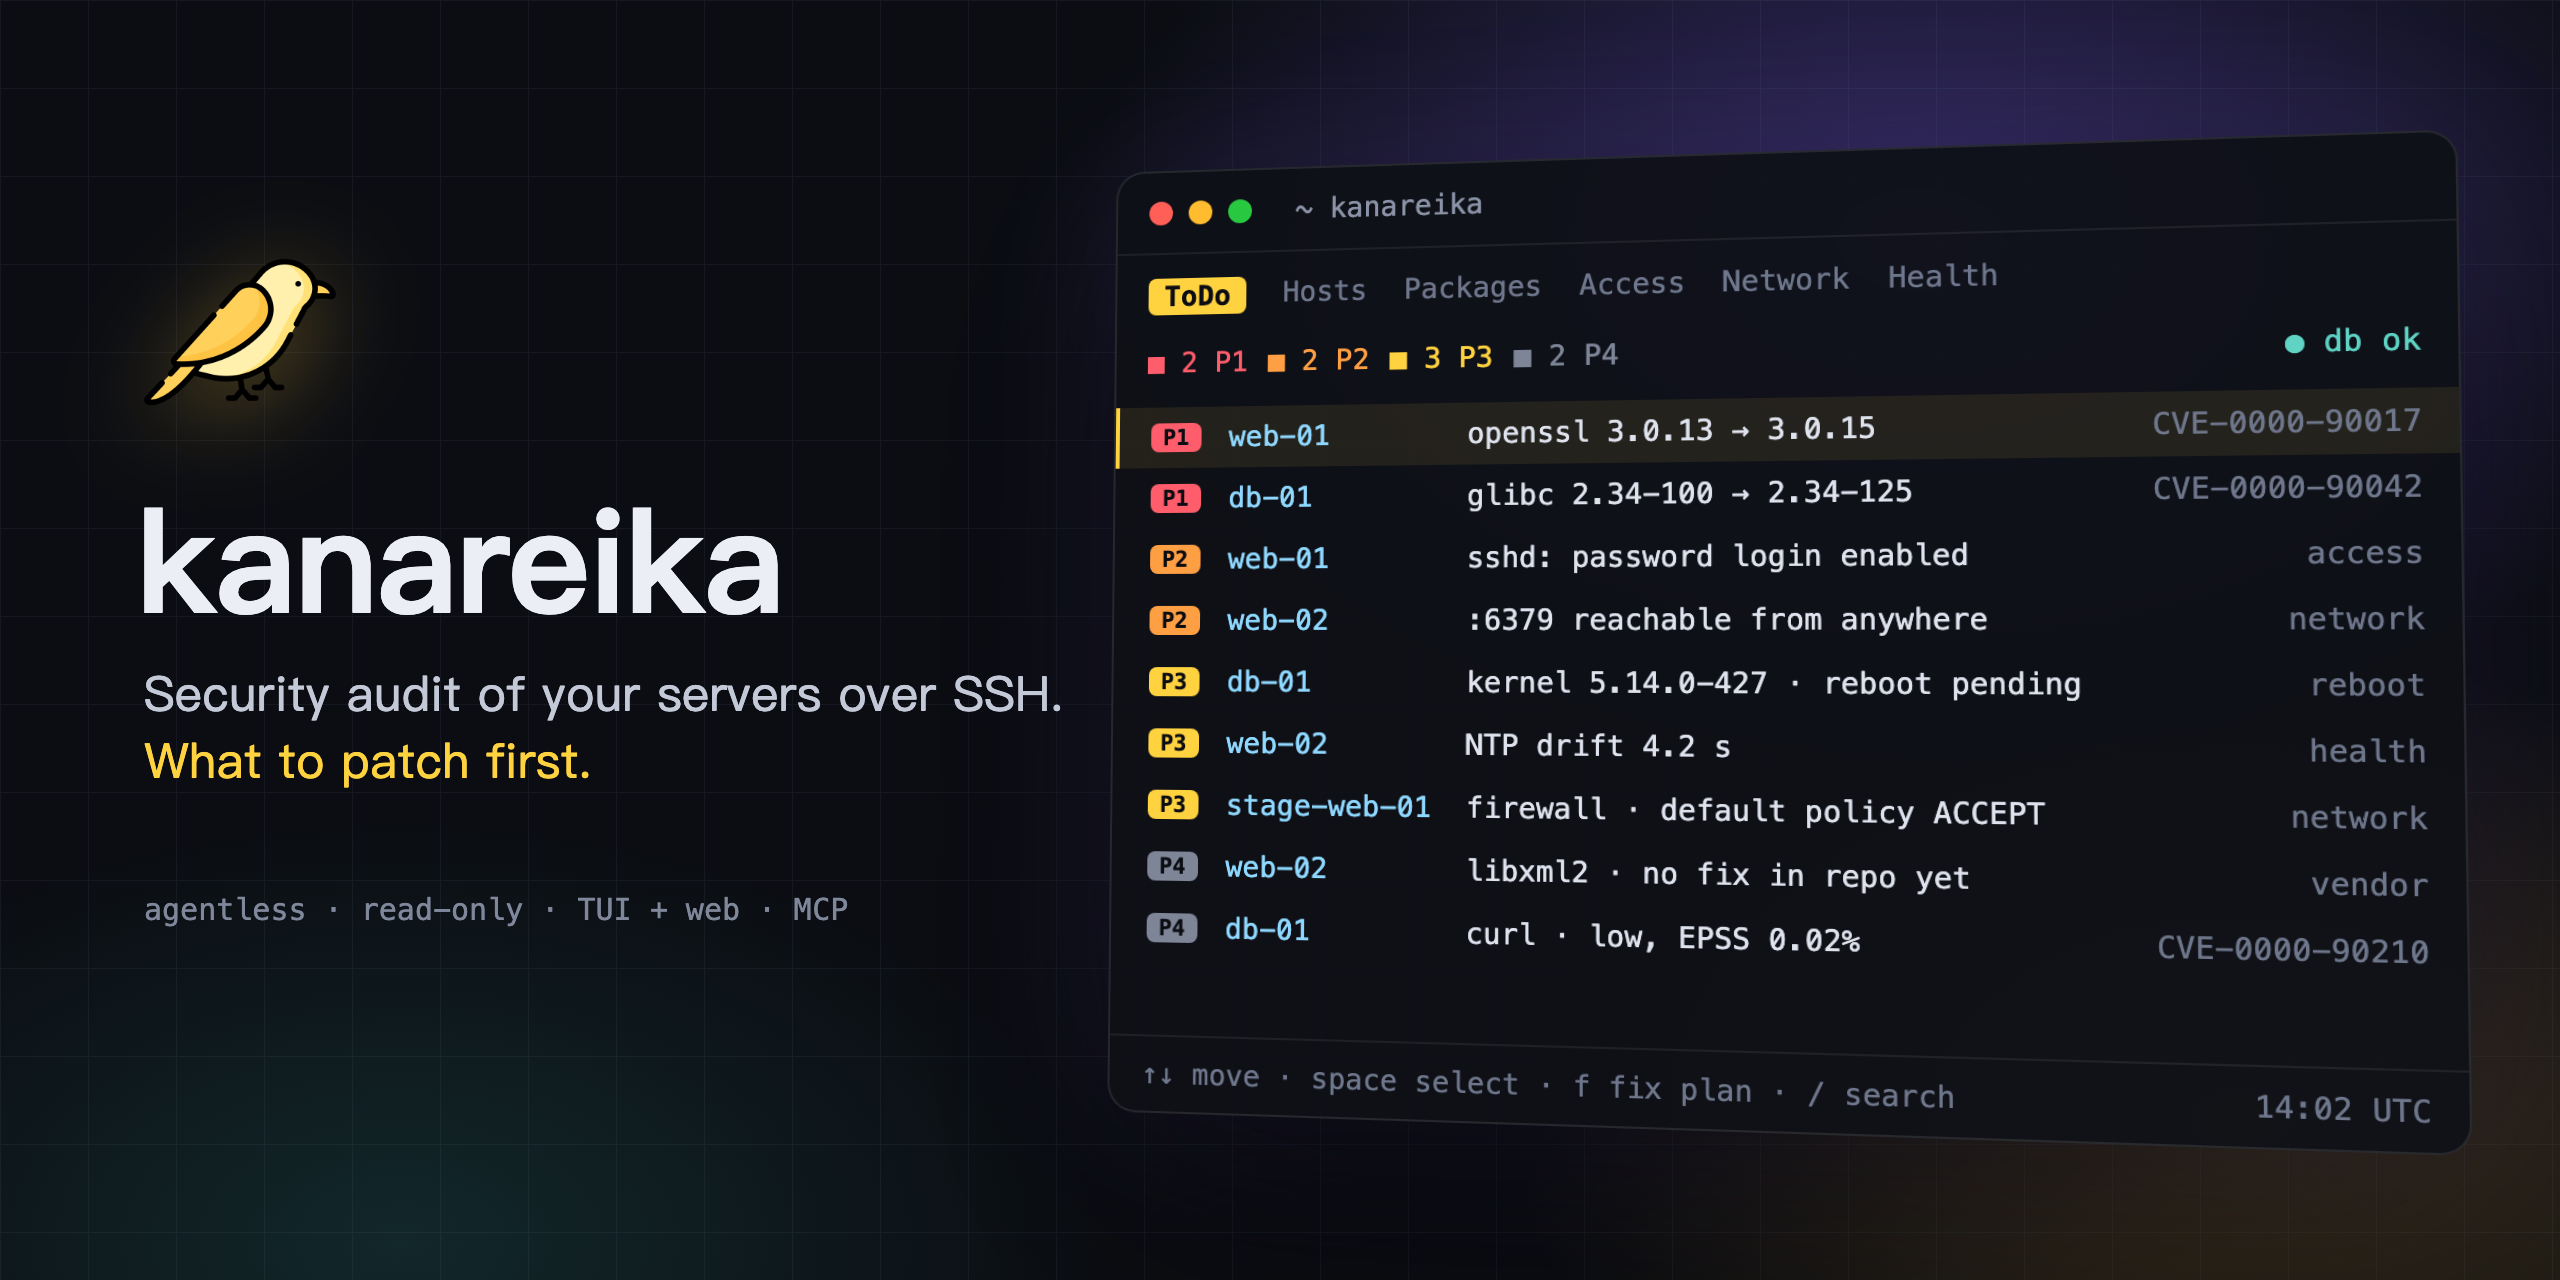
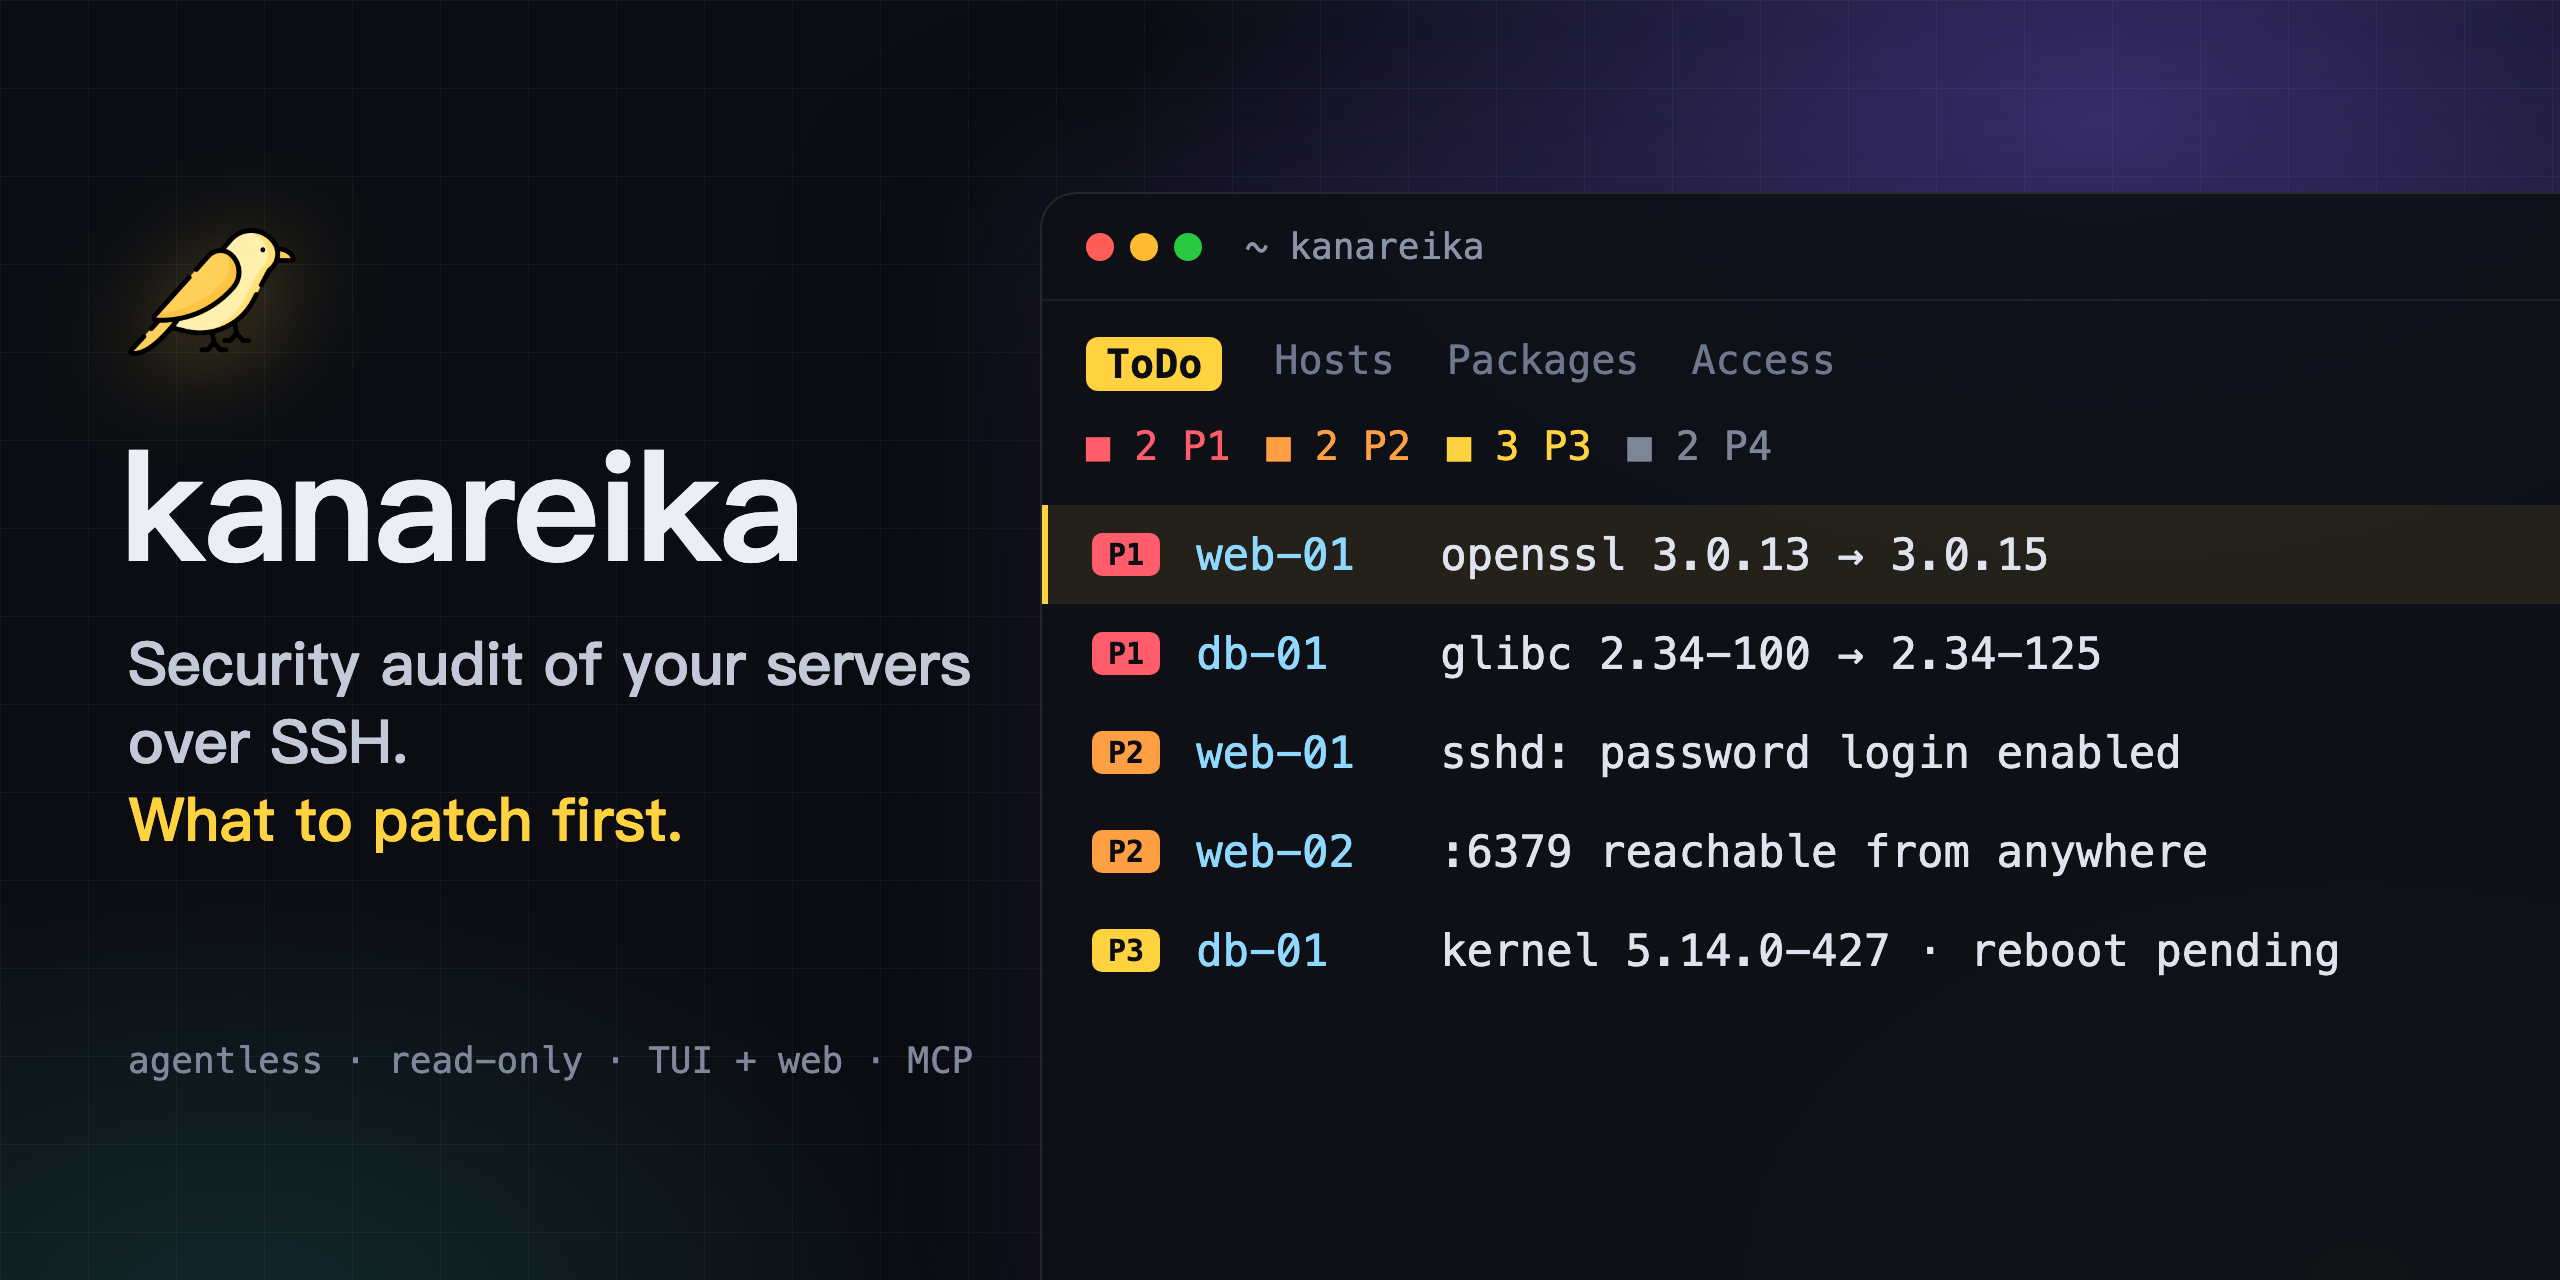
brand: the social preview reads at link-preview size: a flat, close window, larger type, five rows

diff --git a/tools/brand/og.html b/tools/brand/og.html
@@ -1,19 +1,27 @@
 <!doctype html>
 <html><head><meta charset="utf-8"><title>kanareika</title>
 <style>{{.CSS}}
+/* Read at ~450px wide in X and Telegram: the window comes close (flat, big type, few rows) and runs off the
+   right and bottom edges; the words on the left stay large. Keep everything that matters 40px clear of the
+   sides: X crops 2:1 to 1.91:1. */
 html, body { width: 1280px; height: 640px; }
-.win { left: 556px; top: 84px; width: 630px; height: 470px; font-size: 14px;
-  transform: perspective(1400px) rotateY(-11deg) rotateX(3deg); transform-origin: left center; }
 .aurora { inset: 0; background:
-  radial-gradient(600px 380px at 960px 120px, rgba(130,100,255,.35), transparent 70%),
-  radial-gradient(520px 340px at 1120px 560px, rgba(255,190,60,.22), transparent 70%),
-  radial-gradient(500px 300px at 200px 620px, rgba(60,200,190,.14), transparent 70%); }
-.logo { left: 72px; top: 118px; width: 96px; height: 96px; filter: drop-shadow(0 8px 24px rgba(255,200,60,.35)); }
-.name { left: 68px; top: 230px; font-size: 72px; }
-.tag { left: 72px; top: 330px; width: 460px; font-size: 24px; line-height: 1.4; color: #c4c9d8; }
-.sub { left: 72px; top: 446px; font-size: 15px; color: #7f879b; }
-.counts { display: flex; gap: 10px; padding: 4px 16px 14px; }
-.counts .db { margin-left: auto; color: #5fd4c4; }
+  radial-gradient(700px 420px at 1050px 60px, rgba(130,100,255,.38), transparent 70%),
+  radial-gradient(560px 360px at 1180px 640px, rgba(255,190,60,.22), transparent 70%),
+  radial-gradient(520px 320px at 120px 660px, rgba(60,200,190,.14), transparent 70%); }
+.win { left: 520px; top: 96px; width: 820px; height: 600px; font-size: 22px; border-radius: 18px; }
+.win .bar { padding: 16px 22px; font-size: 18px; }
+.win .bar i { width: 14px; height: 14px; }
+.win .tabs { gap: 26px; padding: 18px 22px 10px; font-size: 20px; }
+.win .tabs .on { padding: 2px 10px; border-radius: 6px; }
+.counts { display: flex; gap: 18px; padding: 6px 22px 18px; font-size: 20px; }
+.win .row { gap: 18px; padding: 12px 22px; border-left-width: 3px; }
+.win .row .p { font-size: 15px; padding: 2px 8px; border-radius: 5px; }
+.win .row .h { width: 104px; }
+.logo { left: 64px; top: 104px; width: 84px; height: 84px; filter: drop-shadow(0 8px 24px rgba(255,200,60,.35)); }
+.name { left: 60px; top: 200px; font-size: 76px; }
+.tag { left: 64px; top: 312px; width: 430px; font-size: 30px; line-height: 1.3; color: #c4c9d8; font-weight: 500; letter-spacing: -.01em; }
+.sub { left: 64px; top: 520px; font-size: 18px; color: #7f879b; }
 </style></head>
 <body><div class="card">
 <div class="abs aurora"></div>
@@ -22,11 +30,10 @@ html, body { width: 1280px; height: 640px; }
 
 <div class="abs win mono">
  <div class="bar"><i style="background:#ff5f57"></i><i style="background:#febc2e"></i><i style="background:#28c840"></i><span class="t">~ kanareika</span></div>
- <div class="tabs">{{range $i, $t := .L.Tabs}}<span{{if eq $i 0}} class="on"{{end}}>{{$t}}</span>{{end}}</div>
- <div class="counts">{{range .Counts}}<span class="c{{.N}}">■ {{.Count}} P{{.N}}</span>{{end}}<span class="db">● {{.L.DB}}</span></div>
- {{range $i, $r := .Rows}}<div class="row{{if eq $i 0}} sel{{end}}"><span class="p p{{$r.P}}">P{{$r.P}}</span><span class="h">{{$r.Host}}</span><span class="x">{{$r.Text}}</span><span class="k">{{$r.Kind}}</span></div>
- {{end}}
- <div class="foot"><span>{{.L.Keys}}</span><span>14:02 UTC</span></div>
+ <div class="tabs">{{range $i, $t := .L.Tabs}}{{if lt $i 4}}<span{{if eq $i 0}} class="on"{{end}}>{{$t}}</span>{{end}}{{end}}</div>
+ <div class="counts">{{range .Counts}}<span class="c{{.N}}">■ {{.Count}} P{{.N}}</span>{{end}}</div>
+ {{range $i, $r := .Rows}}{{if lt $i 5}}<div class="row{{if eq $i 0}} sel{{end}}"><span class="p p{{$r.P}}">P{{$r.P}}</span><span class="h">{{$r.Host}}</span><span class="x">{{$r.Text}}</span></div>
+ {{end}}{{end}}
 </div>
 
 <img class="abs logo" src="{{.Logo}}" alt="">

diff --git a/tools/brand/main_test.go b/tools/brand/main_test.go
@@ -83,7 +83,7 @@ func TestPictures(t *testing.T) {
 		}
 	}
 	for name, want := range map[string][]string{
-		"og":        {"What to patch first.", "Network", "■ 2 P1", "■ 3 P3", "■ 2 P4", "CVE-0000-90210", "stage-web-01"},
+		"og":        {"What to patch first.", "Access", "■ 2 P1", "■ 3 P3", "■ 2 P4", "openssl 3.0.13 → 3.0.15", "kernel 5.14.0-427"},
 		"banner-en": {`lang="en"`, "What to patch first.", "ToDo"},
 		"banner-ru": {`lang="ru"`, "Начните с главного.", "Что делать", "Здоровье"},
 		"banner-zh": {`lang="zh"`, "从最重要的开始", "待办", "健康"},
@@ -96,6 +96,12 @@ func TestPictures(t *testing.T) {
 	}
 	if strings.Contains(page["banner-en"], "CVE-0000-90210") {
 		t.Error("banner shows more than its rows")
+	}
+	// the social preview is read at ~450px wide: few tabs, few rows, no CVE column
+	for _, w := range []string{"Network", "NTP drift", "CVE-0000-90017"} {
+		if strings.Contains(page["og"], w) {
+			t.Errorf("og shows more than it can at preview size: %q", w)
+		}
 	}
 }
 
